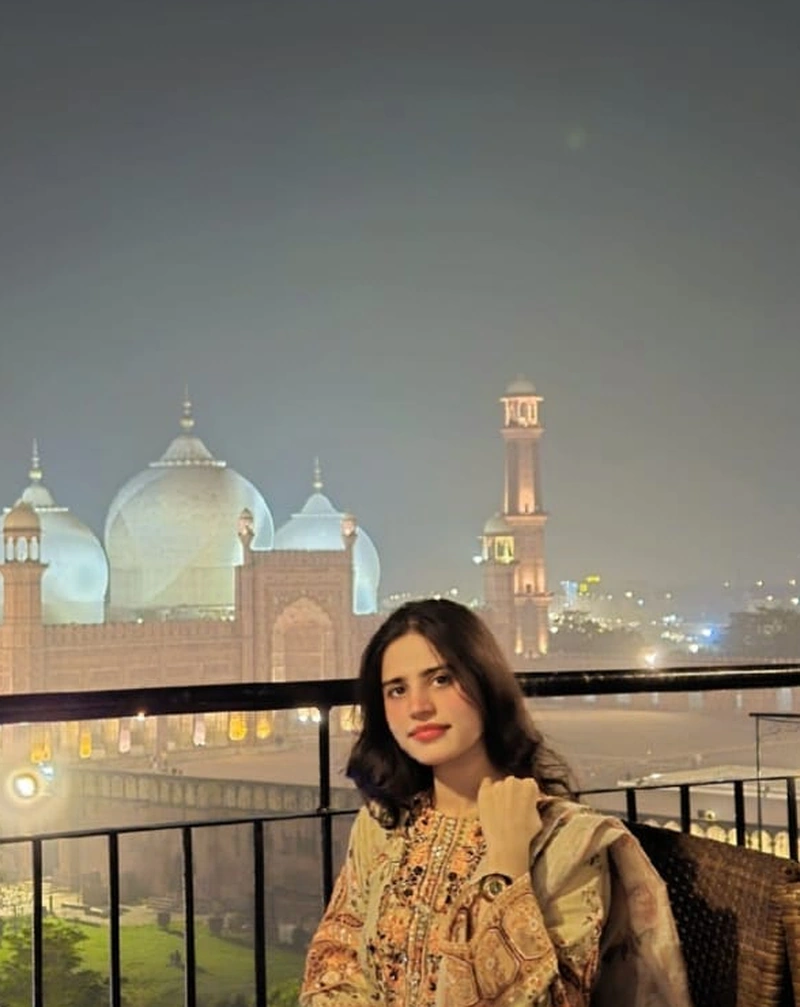
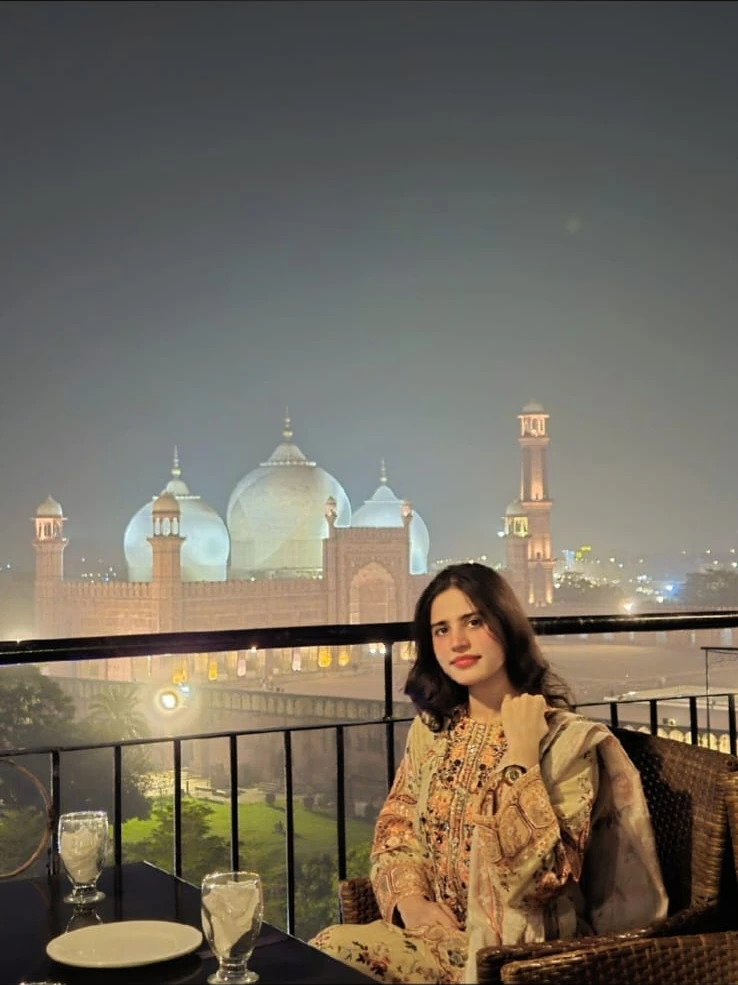
Update CEO portrait with uncropped original photo and adjust aspect ratio

diff --git a/client/src/pages/AboutUs.jsx b/client/src/pages/AboutUs.jsx
@@ -99,7 +99,7 @@ export default function AboutUs({ onOpenSchedule }) {
               <div style={{
                 width: '100%',
                 maxWidth: '430px',
-                aspectRatio: '800 / 1007',
+                aspectRatio: '738 / 985',
                 borderRadius: '20px',
                 border: '2px solid rgba(212, 160, 23, 0.45)',
                 boxShadow: '0 20px 45px rgba(15, 23, 42, 0.16)',
